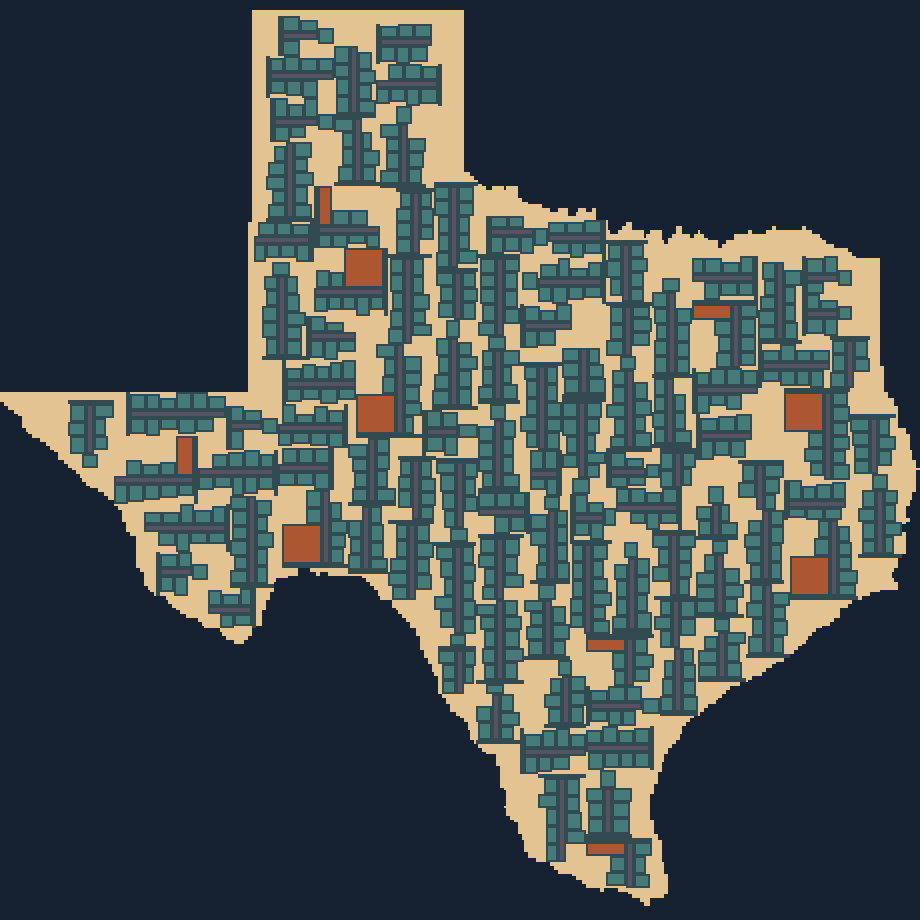
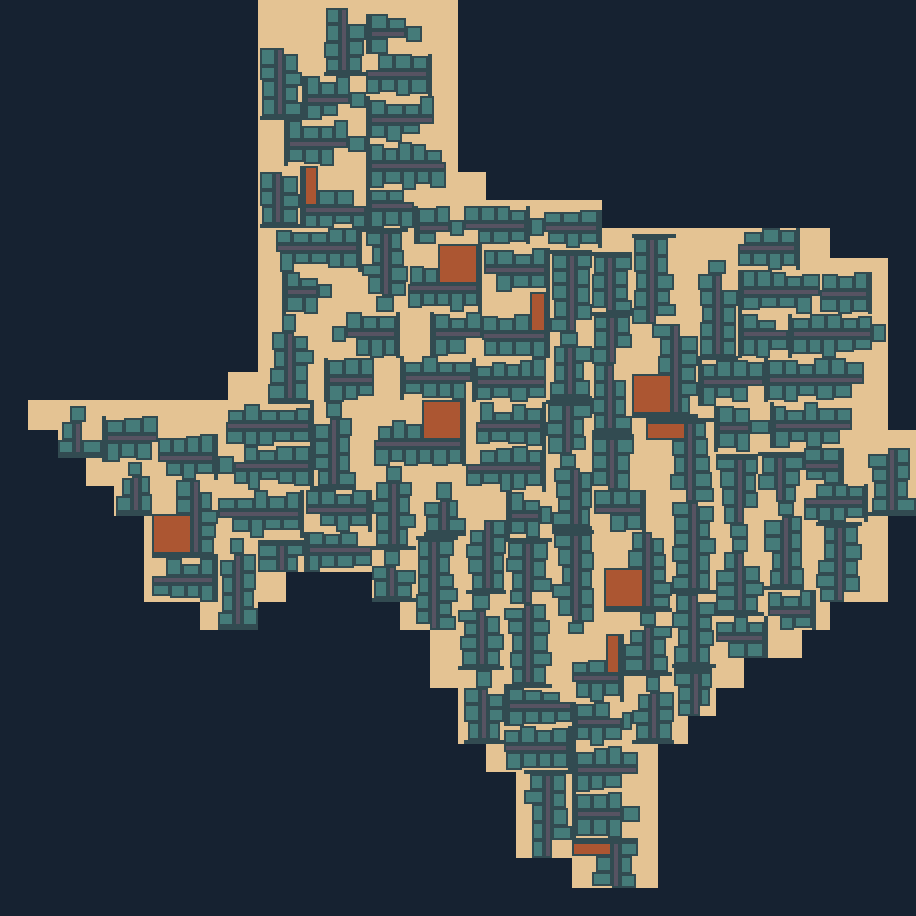
Pixelate the Texas coast and cap galleries at 30 frames

diff --git a/islands/texas/shape.ts b/islands/texas/shape.ts
@@ -2,8 +2,8 @@ import rows from './source/shape.json'
 
 // The PNG points north at the top. World +Z points north.
 export function onLand(x: number, z: number, size: number) {
-  const col = Math.floor((x / size + 0.5) * 256),
-    spans = rows[Math.floor((0.5 - z / size) * 256)]
+  const col = Math.floor((x / size + 0.5) * rows.length),
+    spans = rows[Math.floor((0.5 - z / size) * rows.length)]
   if (!spans) return false
   for (let i = 0; i < spans.length; i += 2) if (col >= spans[i] && col < spans[i + 1]) return true
   return false
@@ -13,13 +13,13 @@ type Street = { width: number; height: number; target: [number, number] }
 
 export function packStreets(blocks: Street[]) {
   const area = blocks.reduce((sum, b) => sum + b.width * b.height, 0)
-  const fraction = rows.reduce((sum, row) => sum + row.reduce((n, v, i) => n + (i % 2 ? v : -v), 0), 0) / 65536
+  const fraction = rows.reduce((sum, row) => sum + row.reduce((n, v, i) => n + (i % 2 ? v : -v), 0), 0) / (rows.length * rows.length)
   const first = Math.max(4, Math.floor(Math.sqrt(area / fraction) / 2) * 2)
   const order = blocks.map((_, i) => i).sort((a, b) => blocks[a].target[1] - blocks[b].target[1] || blocks[b].height - blocks[a].height)
   for (let size = first; size <= 992; size += 2) {
     const positions: [number, number, boolean][] = []
     // Per-row free runs let a later short street fill a coastal pocket left by a longer one.
-    const free = Array.from({ length: size }, (_, z) => rows[Math.floor((1 - (z + 0.5) / size) * 256)].map((v) => Math.ceil((v * size) / 256 - 0.5)))
+    const free = Array.from({ length: size }, (_, z) => rows[Math.floor((1 - (z + 0.5) / size) * rows.length)].map((v) => Math.ceil((v * size) / rows.length - 0.5)))
     for (const i of order) {
       const b = blocks[i]
       let placed = false

diff --git a/test/texas-island.test.ts b/test/texas-island.test.ts
@@ -152,7 +152,7 @@ it('relaxes curb furniture deterministically, keeping hydrants away from pothole
   }
 })
 
-it('gives the saved Texas seed 10 to 50 ArtFrames per building and leaves the parks open', () => {
+it('gives the saved Texas seed 10 to 30 ArtFrames per building and leaves the parks open', () => {
   const { parcels } = islandLayout(settings)
   for (const [i, p] of parcels.entries()) {
     const b = ParcelBuilder.Village({ ...p, x1: p.x1 - 51, x2: p.x2 - 51, z1: p.z1 - 1007, z2: p.z2 - 1007, height: p.y2 - p.y1 }, p.material, p.door, true, i)
@@ -162,7 +162,7 @@ it('gives the saved Texas seed 10 to 50 ArtFrames per building and leaves the pa
       continue
     }
     expect(frames.length, p.address).toBeGreaterThanOrEqual(10)
-    expect(frames.length, p.address).toBeLessThanOrEqual(50)
+    expect(frames.length, p.address).toBeLessThanOrEqual(30)
     expect(new Set(frames.map((f) => String(f.scale))).size).toBeGreaterThan(1)
   }
 })

diff --git a/islands/texas/parcels/interiors.ts b/islands/texas/parcels/interiors.ts
@@ -75,7 +75,7 @@ export function interiors(b: ParcelBuilder, face: string, front: number, square:
     wall(1, front, 1, 0, width - 2, 0, 1)
     for (const u of [0, width - 1]) wall(u, front + 1, 0, 1, depth - front - 2, u ? -1 : 1, 0)
   }
-  const target = 10 + Math.floor(choose() * 41)
+  const target = 10 + Math.floor(choose() * 21)
   const sizes = [
     [8, 5],
     [4, 6],

diff --git a/islands/texas/README.md b/islands/texas/README.md
@@ -30,7 +30,7 @@ Make the parcel mesher and island ground shader sample the same probes. The firs
 
 ## review list
 
-- [x] Fit the 736 parcels to the cropped 256x256 silhouette in `source/shape.png`. The generator reads its lossless row spans in `source/shape.json` for both street placement and terrain.
+- [x] Fit the 736 parcels to the 32x32 pixel silhouette in `source/shape.png`. The generator reads its lossless row spans in `source/shape.json` for both street placement and terrain.
 - [ ] Draw river and creek guides into that same input. Review crossings, banks, dead ends against cliffs, and pedestrian approaches to the seven terrace elevations.
 - [ ] Walk all ten building varieties at street level. Check frame colors and fit, both house silhouettes, the wood-framed mall frontage, saloon porch, square and shop signs against the reference. Review the color and rarity mix across suburbs.
 - [ ] Walk busy and quiet intersections. Tune lamp spacing, benches, hydrants, art footprints and doorway clearance. Review landmark-sized placements and the waterfront cinema, record store and star water tower from the reference.
